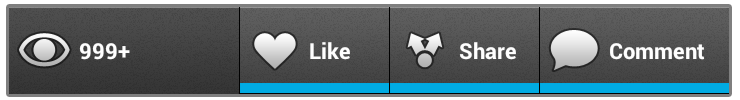
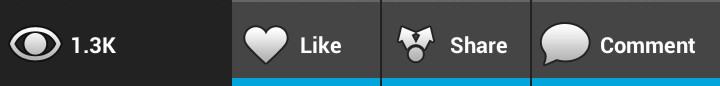
Added action bar customization instructions to docs

diff --git a/demo/src/com/socialize/demo/snippets/ActionBarCustom.java b/demo/src/com/socialize/demo/snippets/ActionBarCustom.java
@@ -1,0 +1,105 @@
+/*
+ * Copyright (c) 2012 Socialize Inc.
+ * 
+ * Permission is hereby granted, free of charge, to any person obtaining a copy
+ * of this software and associated documentation files (the "Software"), to deal
+ * in the Software without restriction, including without limitation the rights
+ * to use, copy, modify, merge, publish, distribute, sublicense, and/or sell
+ * copies of the Software, and to permit persons to whom the Software is
+ * furnished to do so, subject to the following conditions:
+ * 
+ * The above copyright notice and this permission notice shall be included in
+ * all copies or substantial portions of the Software.
+ * 
+ * THE SOFTWARE IS PROVIDED "AS IS", WITHOUT WARRANTY OF ANY KIND, EXPRESS OR
+ * IMPLIED, INCLUDING BUT NOT LIMITED TO THE WARRANTIES OF MERCHANTABILITY,
+ * FITNESS FOR A PARTICULAR PURPOSE AND NONINFRINGEMENT. IN NO EVENT SHALL THE
+ * AUTHORS OR COPYRIGHT HOLDERS BE LIABLE FOR ANY CLAIM, DAMAGES OR OTHER
+ * LIABILITY, WHETHER IN AN ACTION OF CONTRACT, TORT OR OTHERWISE, ARISING FROM,
+ * OUT OF OR IN CONNECTION WITH THE SOFTWARE OR THE USE OR OTHER DEALINGS IN
+ * THE SOFTWARE.
+ */
+package com.socialize.demo.snippets;
+
+import com.socialize.demo.R;
+//begin-snippet-0
+import android.app.Activity;
+import android.graphics.Color;
+import android.os.Bundle;
+import android.view.View;
+import com.socialize.ActionBarUtils;
+import com.socialize.Socialize;
+import com.socialize.entity.Entity;
+import com.socialize.ui.actionbar.ActionBarOptions;
+
+public class ActionBarCustom extends Activity {
+	
+	@Override
+	protected void onCreate(Bundle savedInstanceState) {
+		
+		super.onCreate(savedInstanceState);
+		
+		// Call Socialize in onCreate
+		Socialize.onCreate(this, savedInstanceState);
+		
+		// Your entity key. May be passed as a Bundle parameter to your activity
+		String entityKey = "http://www.getsocialize.com";
+		
+		// Create an entity object including a name
+		// The Entity object is Serializable, so you could also store the whole object in the Intent
+		Entity entity = Entity.newInstance(entityKey, "Socialize");
+		
+		
+		// Create an options instance to specify your theme
+		ActionBarOptions options = new ActionBarOptions();
+		
+		// Set the colors for the Action Bar
+		options.setStrokeColor(Color.parseColor("#591100"));
+		options.setAccentColor(Color.parseColor("#ffa229"));
+		options.setFillColor(Color.parseColor("#831400"));
+		options.setBackgroundColor(Color.parseColor("#591100"));
+		options.setHighlightColor(Color.parseColor("#b05e08"));
+		options.setTextColor(Color.parseColor("#ffba00"));
+		
+		// Optionally alter the images
+		options.setLikeIconResourceId(R.drawable.autumn_like);
+		options.setLikeIconActiveResourceId(R.drawable.autumn_like_hi);
+		options.setCommentIconResourceId(R.drawable.autumn_comment);
+		options.setShareIconResourceId(R.drawable.autumn_share);
+		options.setViewIconResourceId(R.drawable.autumn_view);
+		
+		// Pass the options to the call to show
+		View actionBar = ActionBarUtils.showActionBar(this, R.layout.autumn, entity, options);
+		
+		// Now set the view for your activity to be the wrapped view.
+		setContentView(actionBar);
+	}
+	
+
+	@Override
+	protected void onPause() {
+		super.onPause();
+		
+		// Call Socialize in onPause
+		Socialize.onPause(this);
+	}
+
+	@Override
+	protected void onResume() {
+		super.onResume();
+		
+		// Call Socialize in onResume
+		Socialize.onResume(this);
+	}
+
+	@Override
+	protected void onDestroy() {
+		// Call Socialize in onDestroy before the activity is destroyed
+		Socialize.onDestroy(this);
+		
+		super.onDestroy();
+	}	
+}
+//end-snippet-0
+
+

diff --git a/sdk/doc/sphinx/source/action_bar.rst b/sdk/doc/sphinx/source/action_bar.rst
@@ -11,7 +11,7 @@ The Socialize Action Bar is a single all inclusive control that can be easily ad
 The Action Bar provides immediate access to all Socialize features including
 
 - Commenting
-- Sharing vie Facebook, Twitter, Email and SMS
+- Sharing via Facebook, Twitter, Email and SMS
 - Liking
 - Recording Views
 - User Profile screens with recent user activity 	
@@ -20,7 +20,6 @@ The Action Bar provides immediate access to all Socialize features including
 
 Displaying the Action Bar
 ~~~~~~~~~~~~~~~~~~~~~~~~~
-
 The Action Bar is designed to automatically "pin" iteself to the bottom of your view.
   
 Adding the Action Bar to your app is done with a simple call to **showActionBar** from ActionBarUtils
@@ -33,7 +32,6 @@ Adding the Action Bar to your app is done with a simple call to **showActionBar*
 
 Disabling the ScrollView
 ~~~~~~~~~~~~~~~~~~~~~~~~
-
 By default the ActionBar will create a ScrollView to house your existing content.  
 This is typically necessary so that the ActionBar doesn't impede the use of your existing content.
 
@@ -45,7 +43,6 @@ If you don't want your content to be scrollable however, you can disable this fe
 
 ActionBar Listener
 ~~~~~~~~~~~~~~~~~~
-
 If you need or want to obtain a reference to the ActionBar view at runtime, you can use a creation listener to listen 
 for the "onCreate" event of the ActionBar.
 
@@ -58,7 +55,6 @@ to capture these.
 
 Reloading the Action Bar
 ~~~~~~~~~~~~~~~~~~~~~~~~
-
 If you want to maintain a single action bar instance shared across multiple entities you can simply use the **refresh** method 
 to instruct the ActionBar to reload after you change the entity key.
 
@@ -69,10 +65,33 @@ to instruct the ActionBar to reload after you change the entity key.
 .. literalinclude:: ../../../../demo/src/com/socialize/demo/snippets/ActionBarReload.java
 	:start-after: begin-snippet-1
 	:end-before: end-snippet-1
+	
+Customizing the Action Bar
+~~~~~~~~~~~~~~~~~~~~~~~~~~
+The Action Bar can be customized to suite the look-and-feel of your app.  You can alter colors, font colors and images on the ActionBar to give it a unique appearance
+
+Anything from a simply accent change
+
+.. image:: images/action_bar_red.png
+
+To a complete re-imagining of the appearance
+
+.. image:: images/action_bar_autumn.png
+
+To change the appearance of the Action Bar simply provide an **ActionBarOptions** instance when you display the bar
+
+.. literalinclude:: ../../../../demo/src/com/socialize/demo/snippets/ActionBarCustom.java
+	:start-after: begin-snippet-0
+	:end-before: end-snippet-0
+
+Action Bar Icon Assets
+~~~~~~~~~~~~~~~~~~~~~~
+To make customization simple we have provided Photoshop PSD templates for the standard Action Bar icons used in the default Action Bar.
+
+These can be found in the **/icons** folder of your SDK download.
 
 XML Based Layout
 ~~~~~~~~~~~~~~~~
-
 If the "auto-pin" feature of the Action Bar is not to your liking, or doesn't play well with your existing layout 
 you can always just add the view manually.
 
